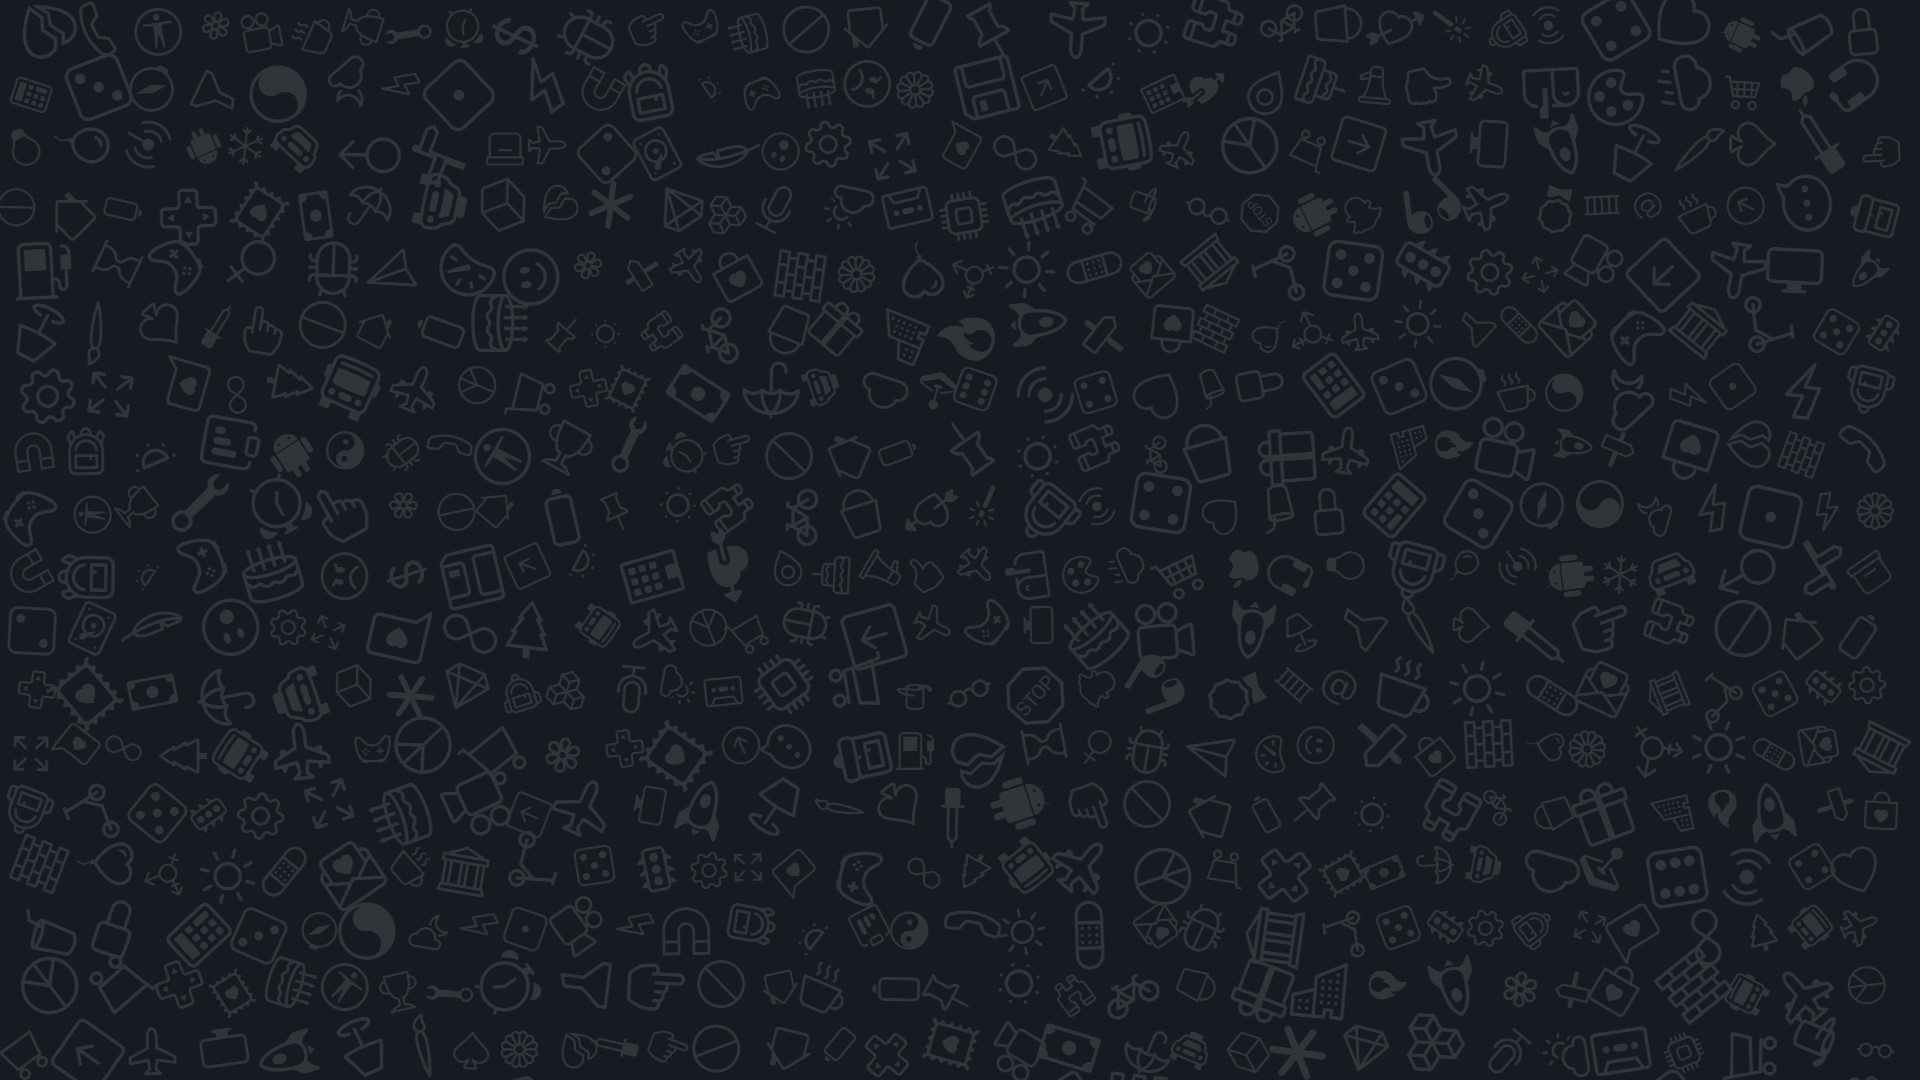
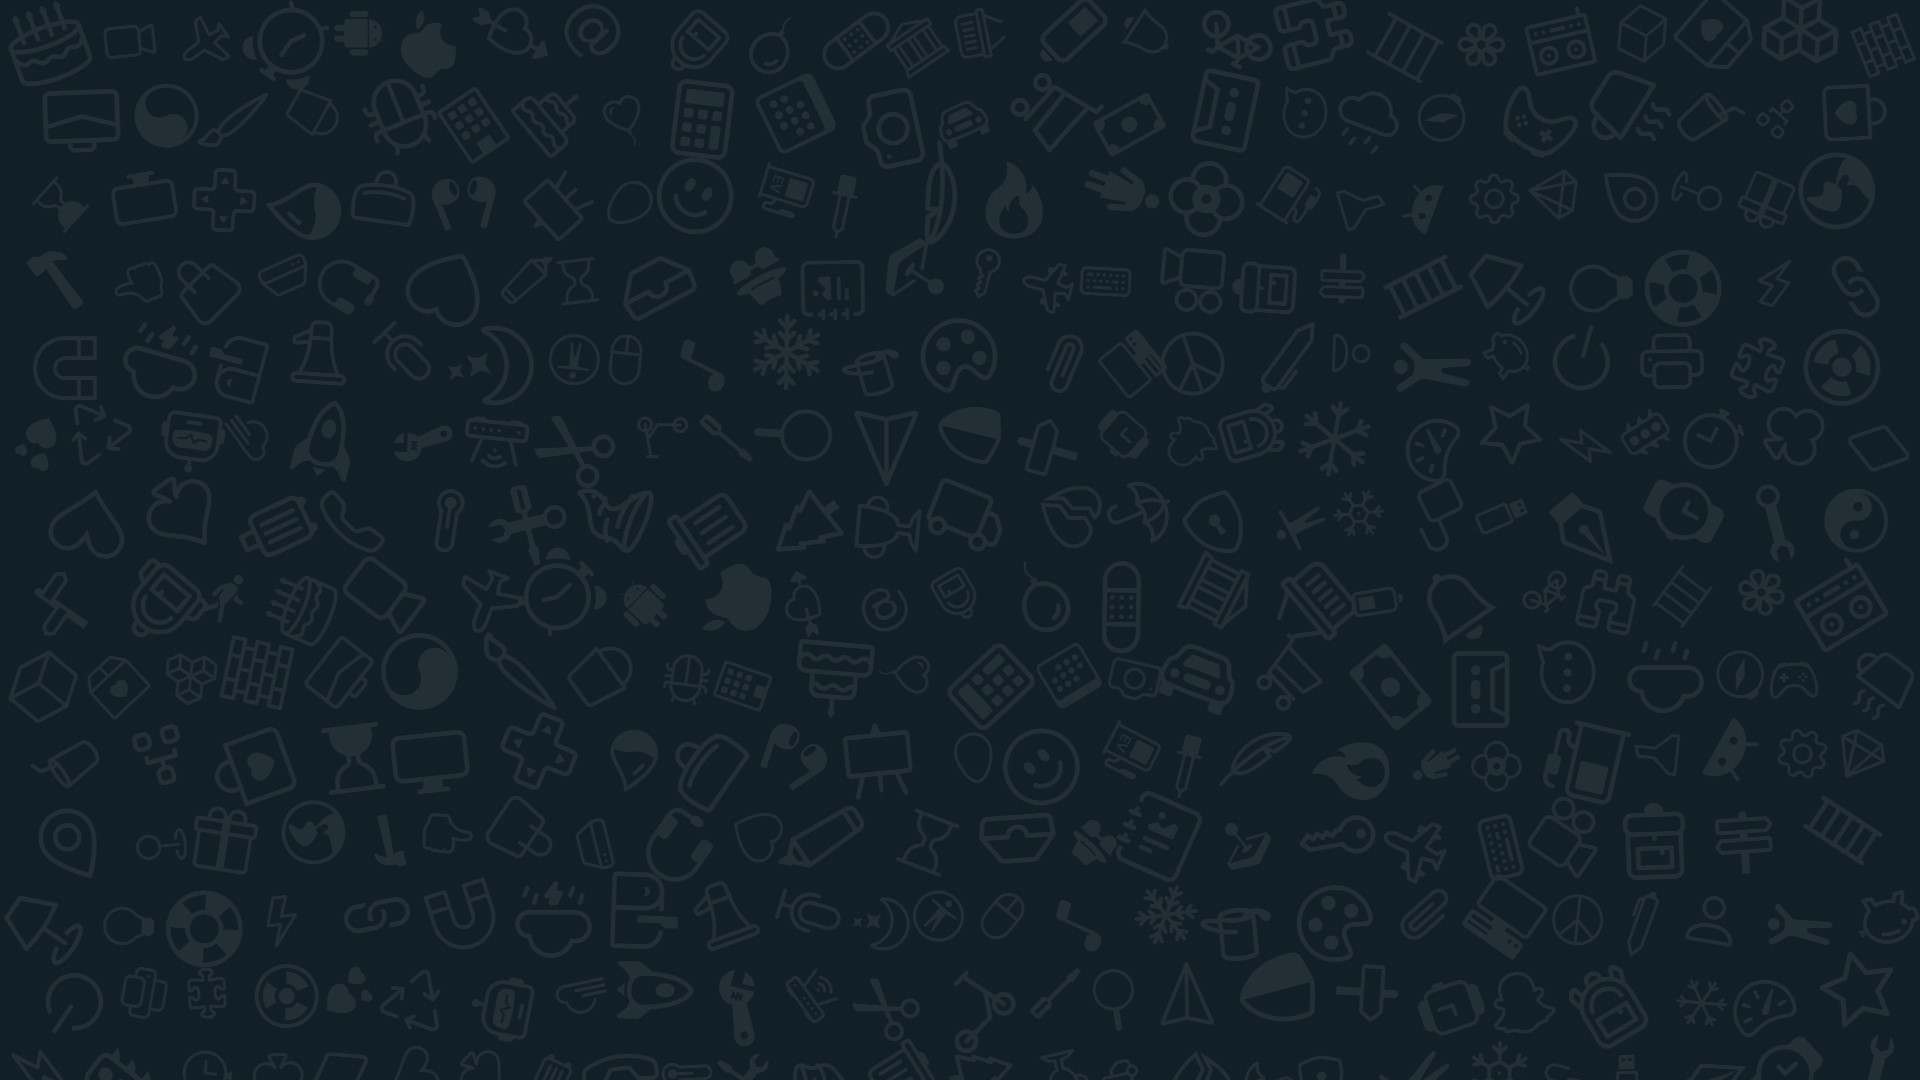
update

diff --git a/public/index.html b/public/index.html
@@ -248,10 +248,13 @@
       </div>
       <div class='buttonT btMenu'>
         <i class="bi bi-envelope"></i>
-        <a href='https://mail.google.com/' target='_blank'>forbysmemories@gmail.com</a>
+        <a href='https://mail.google.com/' target='_blank' title="forbysmemories@gmail.com">
+          <span id="prefixo">forbysmemories</span>
+          <span id="sufixo">@gmail.com</span></a>
         <button class='btClipboard' title='copiar' value='forbysmemories@gmail.com'>
           <i class="bi bi-files"></i>
         </button>
+
       </div>
     </div>
   </div>

diff --git a/public/style.css b/public/style.css
@@ -185,6 +185,17 @@ html {
 
 #myDivRight .btMenu a {
   color: var(--fontColor2);
+  display: flex;
+  flex: 1;
+  flex-direction: row;
+  flex-wrap: wrap;
+}
+
+#myDivRight .btMenu a #prefixo {
+  max-width: fit-content;
+}
+
+#myDivRight .btMenu a #sufixo {
   flex: 1;
 }
 
@@ -563,7 +574,7 @@ html {
 
   #d1_dHome {
     /* padding-top: var(--headerHeigth); */
-    min-height: var(--mobileHeight);
+    min-height: calc(var(--mobileHeight) - var(--headerHeigth));
   }
 
   #d2_dHome {

diff --git a/public/scriptTheme.js b/public/scriptTheme.js
@@ -62,7 +62,7 @@ export function getTheme() {
   myTheme = getCookie('theme');
   switch (myTheme) {
     case '':
-      myTheme = dark();
+      myTheme = light();
       setTheme()
       break;
     case 'dark':
